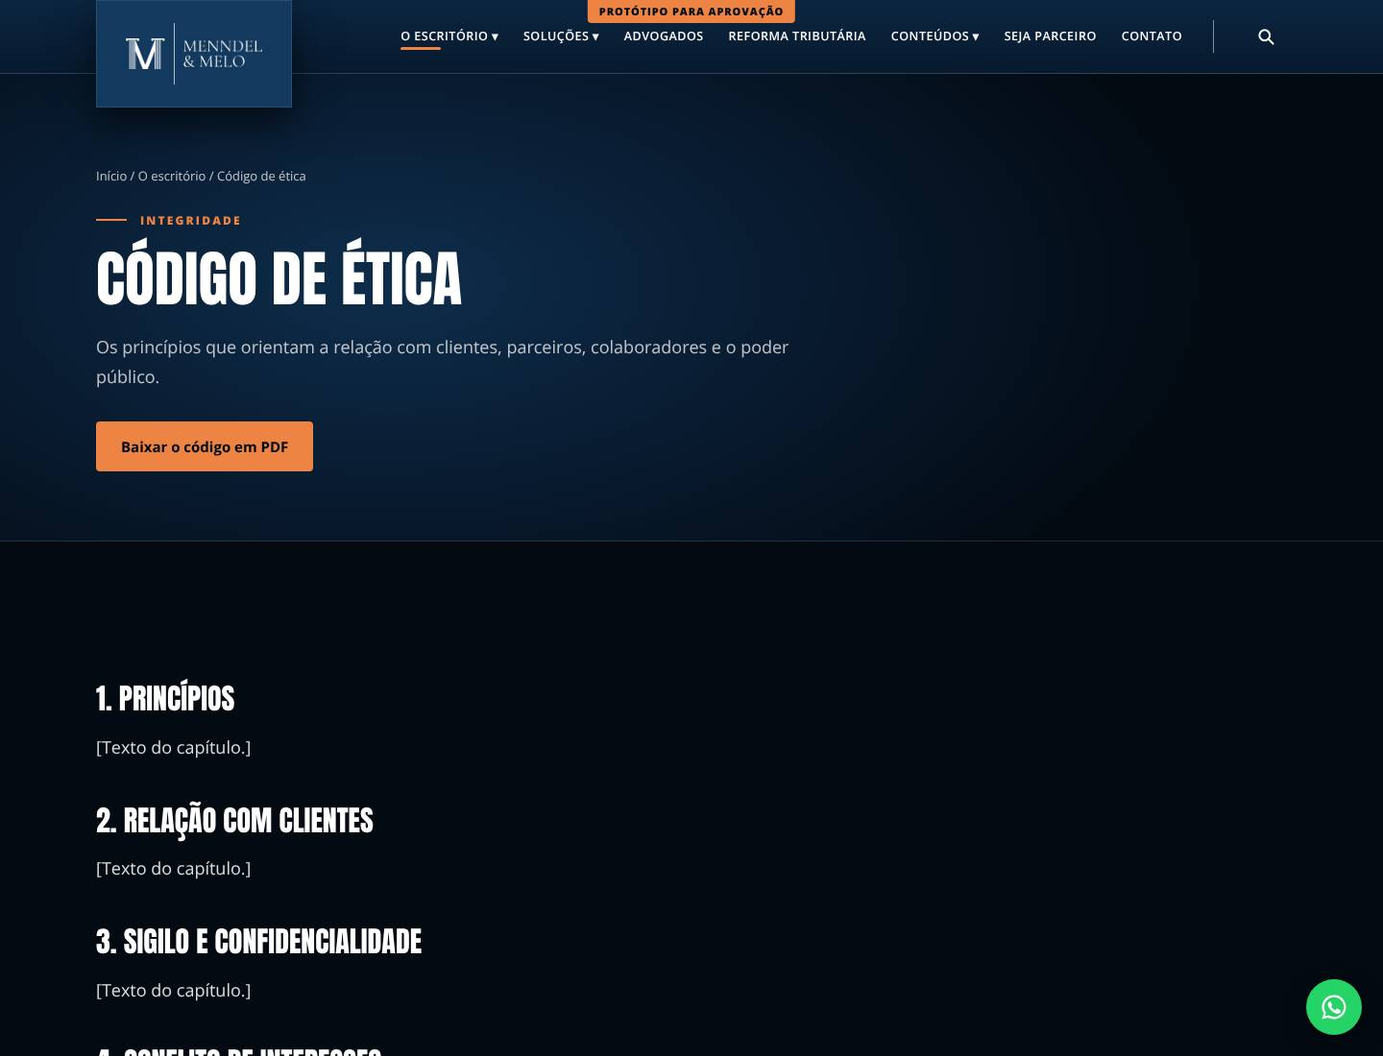
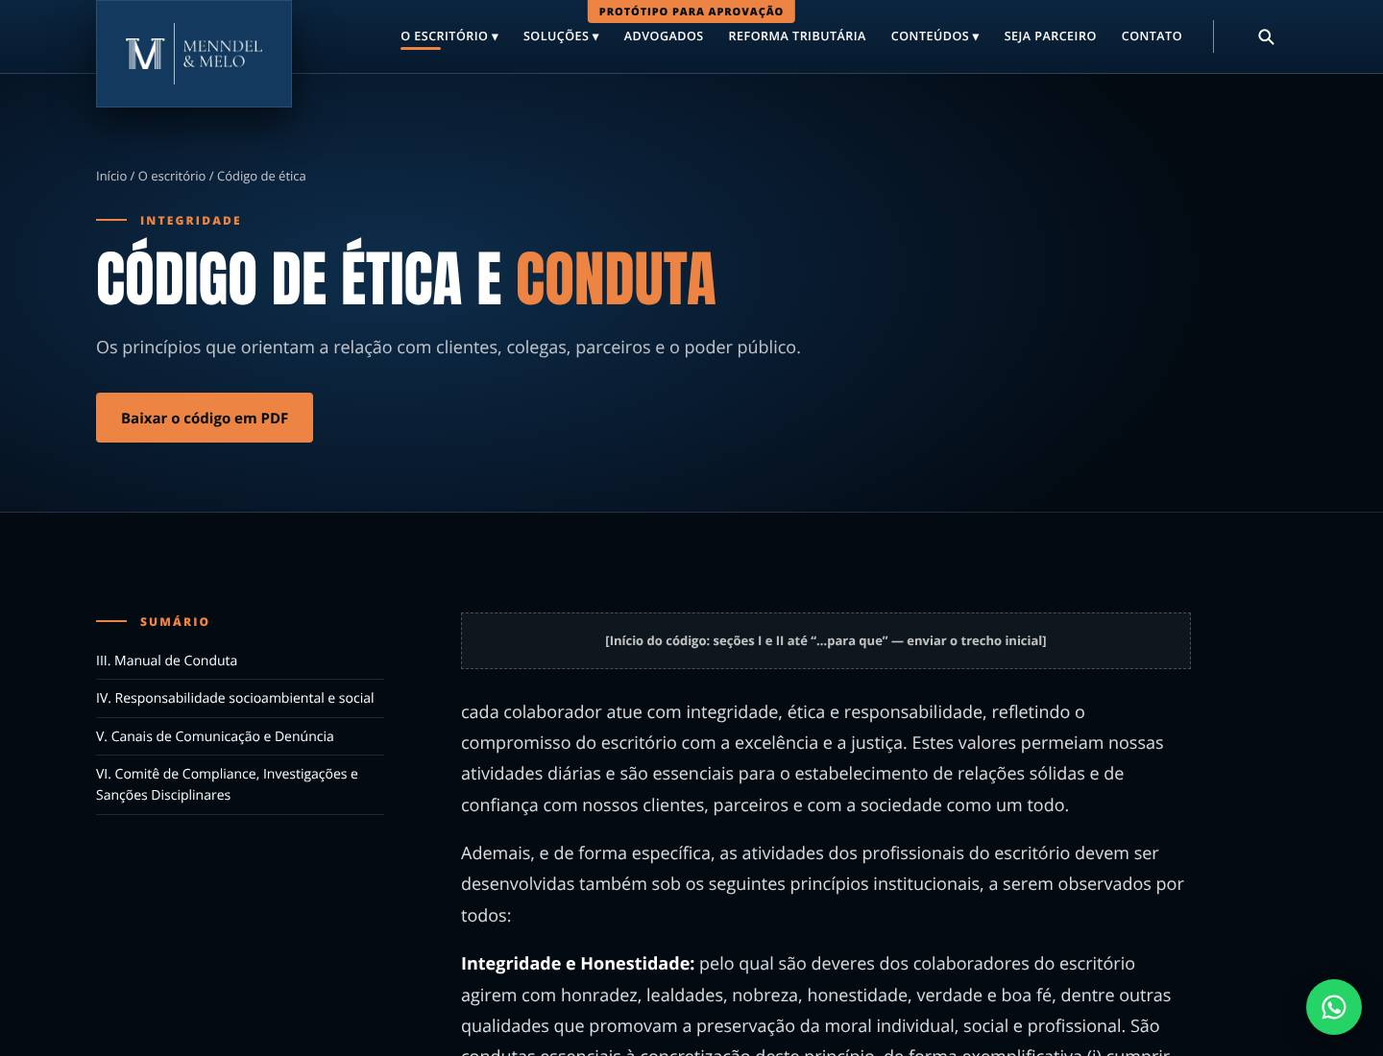
Site: texto do Código de ética
Claude-Session: https://claude.ai/code/session_01RpM6zW2bMnmueP2JfNHt6J

diff --git a/site-menndel/codigo-de-etica.html b/site-menndel/codigo-de-etica.html
@@ -14,9 +14,10 @@
 <main id="conteudo">
 
 <section class="phero"><div class="wrap"><p class="crumb"><a href="home.html">Início</a> / <a href="quem-somos.html">O escritório</a> / Código de ética</p>
-<p class="eyebrow">Integridade</p><h1 class="h1" style="margin-top:18px">Código de ética</h1>
-<p class="lead">Os princípios que orientam a relação com clientes, parceiros, colaboradores e o poder público.</p><div class="btns"><a class="btn" href="#">Baixar o código em PDF</a></div></div></section>
-<section class="sec flat"><div class="wrap"><div class="article"><h2>1. Princípios</h2><p>[Texto do capítulo.]</p><h2>2. Relação com clientes</h2><p>[Texto do capítulo.]</p><h2>3. Sigilo e confidencialidade</h2><p>[Texto do capítulo.]</p><h2>4. Conflito de interesses</h2><p>[Texto do capítulo.]</p><h2>5. Relação com o poder público</h2><p>[Texto do capítulo.]</p><h2>6. Proteção de dados</h2><p>[Texto do capítulo.]</p><h2>7. Aplicação e revisão</h2><p>[Texto do capítulo.]</p></div></div></section>
+<p class="eyebrow">Integridade</p><h1 class="h1" style="margin-top:18px">Código de ética e <span class="hl">conduta</span></h1>
+<p class="lead">Os princípios que orientam a relação com clientes, colegas, parceiros e o poder público.</p><div class="btns"><a class="btn" href="#">Baixar o código em PDF</a></div></div></section>
+<section class="sec flat"><div class="wrap split" style="align-items:flex-start"><aside style="flex:0 1 300px;position:sticky;top:20px"><p class="eyebrow" style="margin-bottom:12px">Sumário</p><a href="#s-iii" style="display:block;padding:8px 0;border-bottom:1px solid var(--line);font-size:14px">III. Manual de Conduta</a><a href="#s-iv" style="display:block;padding:8px 0;border-bottom:1px solid var(--line);font-size:14px">IV. Responsabilidade socioambiental e social</a><a href="#s-v" style="display:block;padding:8px 0;border-bottom:1px solid var(--line);font-size:14px">V. Canais de Comunicação e Denúncia</a><a href="#s-vi" style="display:block;padding:8px 0;border-bottom:1px solid var(--line);font-size:14px">VI. Comitê de Compliance, Investigações e Sanções Disciplinares</a></aside>
+<div class="article" style="flex:2 1 600px"><div class="ph" style="margin-bottom:28px;padding:18px">[Início do código: seções I e II até “…para que” — enviar o trecho inicial]</div><p>cada colaborador atue com integridade, ética e responsabilidade, refletindo o compromisso do escritório com a excelência e a justiça. Estes valores permeiam nossas atividades diárias e são essenciais para o estabelecimento de relações sólidas e de confiança com nossos clientes, parceiros e com a sociedade como um todo.</p><p>Ademais, e de forma específica, as atividades dos profissionais do escritório devem ser desenvolvidas também sob os seguintes princípios institucionais, a serem observados por todos:</p><p><b style="color:#fff">Integridade e Honestidade:</b> pelo qual são deveres dos colaboradores do escritório agirem com honradez, lealdades, nobreza, honestidade, verdade e boa fé, dentre outras qualidades que promovam a preservação da moral individual, social e profissional. São condutas essenciais à concretização deste princípio, de forma exemplificativa (i) cumprir os compromissos assumidos perante o escritório, os colegas, os clientes e a Justiça; (ii) manter a honestidade em sua atuação interna e externa ao escritório, inclusive observando integralmente a legislação anticorrupção e a relativa à defesa da concorrência; (iii) não faltar com a verdade em seu relacionamento com os colegas e clientes, bem como em sua atuação profissional dentro e fora do Poder Judiciário; e (iv) ser leal e dedicado aos clientes e ao escritório, honrando a confiança depositada por ambos na sua atuação.</p><p><b style="color:#fff">Respeito:</b> que impõe aos colaboradores do escritório valorizarem a dignidade da pessoa humana e zelar por um ambiente de trabalho harmônico, cordial e fraterno, bem como absoluto respeito aos direitos e à esfera íntima dos colegas, clientes e parceiros, vedada qualquer discriminação em função da raça, religião, gênero, orientação sexual ou de qualquer outra natureza.</p><p><b style="color:#fff">Responsabilidade e da Excelência:</b> pelo qual são deveres dos colaboradores do M&amp;M Advocacia conduzirem com responsabilidade, ética, eficiência e presteza todos os compromissos profissionais e sociais assumidos perante clientes, colegas, parceiros e autoridade, enviando todos os esforços necessários ao atingimento dos objetivos perseguidos, bem como buscando sempre o aprimoramento profissional e a excelência nos serviços prestados.</p><p><b style="color:#fff">Solidariedade:</b> que impõe aos colaboradores buscarem sempre os fins comuns ao escritório, trabalhando em equipe e procurando auxiliar os demais na consecução dos objetivos assumidos perante os clientes, sem olvidar, todavia, da responsabilidade social inerente à advocacia como função indispensável à administração da Justiça.</p><p><b style="color:#fff">Respeito à Dignidade e à Diversidade:</b> que reconhece e valoriza a dignidade de todas as pessoas, promovendo um ambiente de trabalho inclusivo, harmonioso e livre de qualquer forma de discriminação. Onde a atuação é pautada pelo respeito às diferenças e pelo acolhimento, garantindo que todos os colaboradores, clientes e parceiros sejam tratados com equidade e respeito.</p><h2 id="s-iii">III. Manual de Conduta</h2><h3 id="s-iii-1" style="font-size:22px;margin:32px 0 6px;color:var(--orange)">III.1 Orientações Gerais</h3><p>Pautados pelos princípios referidos no item anterior e nas demais normas deontológicas que regem a atividade das sociedades profissionais de advogados, os colaboradores do M&amp;M devem, de forma específica, praticar e/ou se abster de praticar cotidianamente um conjunto de condutas que se passa a enumerar abaixo, não exaustivamente. Assim é que, de modo geral, todos os colaboradores devem:</p><p>(i) Obedecer às normas internas do M&amp;M e às leis em vigor, com destaque para a Lei nº 12.846/13 (&quot;Lei Anticorrupção&quot;) e o Decreto nº 8.420/2015, que a regulamentou, a Lei nº 13.709/2018 (&quot;Lei Geral de Proteção de Dados&quot;), bem como comunicar ao Comitê de Compliance ou ao Data Protection Office (DPO) caso tome conhecimento de qualquer situação de violação legal ou regulamentar envolvendo o M&amp;M e/ou seus integrantes e colaboradores;</p><p>(ii) Observar o dever de confidencialidade durante e após o vínculo colaborativo com o escritório, que abrange, além do sigilo profissional garantido por lei, o compromisso com a proteção das informações confidenciais internas do escritório, de colegas e demais colaboradores, que não devem ser divulgadas salvo por exigência legal ou mediante autorização do seu titular;</p><p>(iii) Respeitar a propriedade intelectual de todo o material produzido pelo M&amp;M e seus colaboradores, evitando sua divulgação e utilização externa não autorizada, bem como se abster de utilizar qualquer material intelectual de autoria de terceiros sem a respectiva referência autoral;</p><p>(iv) Não usar o nome ou vínculo colaborativo com o escritório para benefício próprio em detrimento dos interesses do M&amp;M e/ou de seus clientes;</p><p>(v) Zelar pelo bom nome e reputação do M&amp;M, abstendo-se de praticar condutas que coloquem em risco essa reputação;</p><p>(vi) Zelar pelo patrimônio do M&amp;M, abstendo-se de praticar condutas que o coloquem em risco ou dano;</p><p>(vii) Não usar o patrimônio do M&amp;M para fins pessoais sem a devida autorização e/ou comunicação;</p><p>(viii) Abster-se de praticar qualquer ação ou omissão que caracterize discriminação em função da raça, gênero, religião, idade ou qualquer outra forma de diversidade, especialmente em matéria de contratações, tratamento interno, avaliações, remunerações, promoções, seleção de caudas e clientes, comunicação institucional, dentre outras;</p><p>(ix) Abster-se de praticar qualquer conduta que caracterize assédio sexual e/ou moral em relação a qualquer outro colaborador, cliente, fornecedor, parceiro ou prestador de serviço;</p><p>(x) Respeitar e proteger a livre concorrência, abstendo-se de praticar e/ou auxiliar clientes a praticarem condutas que possam ser caracterizadas como concorrência desleal ou outras violações à legislação anticoncorrencial, em especial às Leis nºs 12.529/11, Lei nº 14.133/2021 (bem como a Lei n° 8.666/93 quando ainda aplicável) e 13.303/16, dentre outras;</p><p>(xi) Observar as normas legais e regulamentares relativas a conflitos de interesses, a fim de impedir que se materializem. Para tanto, todo potencial cliente e/ou caso novo – de natureza consultiva ou contenciosa – deve ser submetido previamente ao Comitê Executivo do M&amp;M, a fim de se verificar a ausência de conflitos, não apenas nos termos do Código de Ética e demais regulamentos da OAB na matéria, mas também em relação aos termos de outras obrigações contratuais já assumidas previamente pelo escritório;</p><p>(xii) Seguir as diretrizes e orientações da equipe de Segurança da Informação, bem como participar dos treinamentos que envolvam o tema e observar a Política de Proteção de Dados e o Manual de Boas Práticas LGPD, comprometendo-se a comunicar imediatamente às equipes competentes qualquer problema nesse contexto.</p><p>O M&amp;M considera a transparência e a conduta lícita pontos fundamentais para parcerias longas e benéficas para as partes e para a sociedade. Em razão disso, o escritório toma as medidas possíveis, de acordo com seu porte e ramo de atuação, para prevenir qualquer envolvimento, ainda que involuntário, em crime de lavagem de dinheiro, como, e.g., a limitação do número de colaboradores permitidos a autorizar pagamentos em nome da sociedade e a adoção de sistemas de confirmação/autorização em duas instâncias para a efetivação de cobranças e pagamentos em nome da sociedade.</p><h3 id="s-iii-2" style="font-size:22px;margin:32px 0 6px;color:var(--orange)">III.2 Relacionamento Interno</h3><p>Sem prejuízo das demais regras de conduta expostas até aqui, no que se refere de forma específica ao relacionamento interno entre colegas e colaboradores do M&amp;M, são deveres de todos:</p><p>(i) Promover um ambiente de trabalho agradável, salubre e cordial, mantendo eventuais conflitos internos – seja de caráter técnico, moral, relacional ou de qualquer outra natureza – restritos ao ambiente privado do M&amp;M, evitando-se a publicidade ou divulgação externa;</p><p>(ii) Informar ao Comitê de Compliance se o próprio ou seu cônjuge/companheiro possui relacionamento pessoal ou profissional com clientes, fornecedores ou colaboradores do M&amp;M ou com órgãos e agentes da Administração Pública direta, indireta ou fundacional, inclusive empresas públicas e sociedades de economia mista, como forma de evitar conflito de interesses;</p><p>(iii) Informar ao Comitê de Compliance se parente do próprio ou de seu cônjuge/companheiro, em linha reta ou colateral até o terceiro grau, possui relacionamento pessoal ou profissional com clientes, fornecedores ou colaboradores do M&amp;M ou com órgãos e agentes da Administração Pública direta, indireta ou fundacional, inclusive empresas públicas e sociedades de economia mista, como forma de evitar conflito de interesses;</p><p>(iv) Informar ao Comitê de Compliance a propositura, antes ou após o ingresso no M&amp;M, de qualquer ação em face de cliente do M&amp;M em que figure como autor o próprio ou seu cônjuge/companheiro;</p><p>(v) Consultar previamente o Comitê Executivo sobre a intenção de prestação de serviços advocatícios de forma independente , para o fim de verificar a eventual existência de conflitos de interesses com clientes ou teses jurídicas defendidas em nome do M&amp;M, de modo a evitá-los, bem como informar a existência prévia de ações por si patrocinadas quando do ingresso nos quadros do M&amp;M, para os mesmos fins.</p><h3 id="s-iii-3" style="font-size:22px;margin:32px 0 6px;color:var(--orange)">III.3 Relacionamento com Clientes</h3><p>No que se refere ao relacionamento com os clientes, os colaboradores do M&amp;M deverão observar, além das demais condutas aplicáveis já previstas no presente Código, o seguinte:</p><p>(i) Executar com presteza, boa técnica e eficiência os compromissos assumidos com o cliente, envidando todos os esforços possíveis para a obtenção do fim por ele visado;</p><p>(ii) Respeitar com rigor o sigilo profissional, bem como proteger as informações e dados transmitidos pelo cliente, fazendo sua utilização e/ou divulgação somente para fiel cumprimento do mandato e/ou após autorização do mesmo;</p><p>(iii) Ao postular contra ex-cliente, cuidar para que informações confidenciais ou privilegiadas que lhe tenham sido confiadas permaneçam resguardadas pelo sigilo profissional, estando ciente o colaborador que o dever de confidencialidade deverá ser mantido durante e após o vínculo colaborativo com o escritório;</p><p>(iv) Informar ao Comitê de Compliance a superveniência de qualquer situação de que tome conhecimento que possa representar conflito de interesses entre si próprio e o cliente, ou entre este e o M&amp;M e/ou seus demais integrantes;</p><p>(v) Tratar o cliente e/ou seus representantes e prepostos com cortesia, respeito e urbanidade, bem como agir com ética e transparência, inclusive na quantificação de custos e honorários envolvidos no serviço contratado;</p><p>(vi) É vedada a oferta de brindes, presentes ou quaisquer vantagens a clientes atuais e/ou em potencial fora dos limites de eventual contrato existente ou em negociação entre as partes, com o objetivo de recompensar, agradecer ou influenciar a tomada de qualquer decisão, bem como para o fim de obter a prática de qualquer ato favorável ao M&amp;M, seus colaboradores ou clientes;</p><p>(vii) É vedado o recebimento de brindes, presentes ou quaisquer vantagens de clientes atuais e/ou em potencial fora dos limites de eventual contrato existente ou em negociação entre as partes, com o objetivo de recompensar, agradecer ou influenciar a tomada de qualquer decisão.</p><h3 id="s-iii-4" style="font-size:22px;margin:32px 0 6px;color:var(--orange)">III.4 Relacionamento com Entes, Agentes e Autoridades Públicas</h3><p>Em linhas gerais, o relacionamento do M&amp;M e/ou de seus colaboradores com entes, agentes e autoridades públicos – assim entendidos quaisquer integrantes da Administração Pública, direta ou indireta, em todos os níveis da Federação, bem como as autoridades dos Poderes Legislativo e Judiciário, inclusive no exercício de suas funções típicas – deve sempre se orientar pelos princípios constitucionais e regras legais diretamente aplicáveis à matéria, destacando-se o art. 37 da Constituição Federal, o Código Penal e a Lei nº 12.846/13 e respectivo Decreto regulamentar. De toda forma, passa-se a enumerar abaixo, de forma não exaustiva, regras específicas de conduta que são indispensáveis ao cumprimento da referida legislação:</p><p>(i) É vedada a obtenção, tentativa de obtenção ou oferta de qualquer vantagem indevida ao M&amp;M, seus integrantes e/ou clientes em decorrência de eventual relacionamento pessoal ou profissional de colaborador do M&amp;M com entes, agentes ou autoridades públicos;</p><p>(ii) Todos os colaboradores do M&amp;M devem comunicar ao Comitê de Compliance o exercício, por si próprio, seu cônjuge ou parentes em linha reta ou colaterais até o terceiro grau, de qualquer espécie de função pública, seja em caráter permanente ou eventual. O Comitê de Compliance deverá manter uma lista atualizada dessas informações, que poderá ser solicitada por todos para consulta, através do e-mail compliance@menndel.com, a fim de se prevenirem eventuais conflitos de interesses ou situações de ilicitude;</p><p>(iii) O relacionamento do M&amp;M e de seus integrantes com agentes e autoridades públicos deverá se dar de forma pública e transparente, valendo-se sempre que possível de mecanismos institucionais para a realização de encontros e reuniões, tais como agendamento público prévio, pautas e atas, ainda que pela via de email;</p><p>(iv) A celebração de contratos de prestação de serviços advocatícios pelo M&amp;M a entes públicos deverá sempre observar estritamente, além da legislação aplicável em cada caso, os estatutos, normas e procedimentos internos a que subordinado o ente contratante;</p><p>(v) É vedada a oferta de brindes ou presentes a qualquer agente ou autoridade pública em nome do M&amp;M e/ou seus colaboradores com o objetivo de recompensar, agradecer ou influenciar a tomada de qualquer decisão, bem como para o fim de obter a prática de qualquer conduta favorável ao M&amp;M, seus colaboradores ou clientes;</p><p>(vi) Não se enquadra na vedação do item anterior o oferecimento de livros jurídicos produzidos pelos integrantes do M&amp;M, bem como de material ou produtos de divulgação do escritório, como agendas, canetas, blocos ou outros itens sem valor comercial ou de valor módico, desde que observados os limites e normas estabelecidos nos estatutos e regras funcionais a que submetidos os agentes ou autoridades a que distribuídos;</p><p>(vii) É vedado o recebimento, pelo M&amp;M e/ou seus colaboradores, de brindes, presentes ou vantagens ofertados por entes, agentes e autoridades públicos fora dos limites e condições de eventual contrato de prestação de serviços existente entre o escritório e o ofertante, ressalvados os casos em que há relacionamento pessoal ou parentesco entre o colaborador e o indivíduo investido na função pública e o brinde ou presente não se relacione com qualquer atividade, contrato ou cliente do M&amp;M.</p><h3 id="s-iii-5" style="font-size:22px;margin:32px 0 6px;color:var(--orange)">III.5 Doações</h3><p>É vedada a realização de doações ou quaisquer contribuições financeiras e/ou sob a forma de vantagens e serviços a partidos políticos em nome do M&amp;M. O colaborador que desejar fazer tais doações somente pode fazê-lo por mera liberalidade e convicção pessoal, sem qualquer relação ou condicionamento à prática de ações ou omissões envolvendo o M&amp;M ou seus clientes, bem como deve informar ao Comitê de Compliance, a fim de prevenir eventuais conflitos de interesses em sua atuação profissional no escritório.</p><p>Não se incluem na vedação que se vem de referir o ministério de aulas, palestras e cursos de natureza jurídica por integrantes do M&amp;M em eventos patrocinados, organizados ou que envolvam de alguma forma partidos e organizações de caráter político, desde que respeitados os princípios éticos e de transparência previstos ao longo do presente Código.</p><h2 id="s-iv">IV. Responsabilidade socioambiental e social</h2><p>O M&amp;M respeita o meio ambiente e valoriza atitudes responsáveis que tenham por objetivo alcançar maior sustentabilidade e menor impacto ambiental, incentivando o uso consciente dos recursos naturais. Por isso, adota uma série de medidas voltadas à preservação do meio ambiente, tais como: a adoção, o descarte correto e a reutilização de materiais recicláveis; a priorização do modo digital sobre o impresso no exercício de suas atividades sempre que possível; a organização de campanhas e palestras sobre a importância da adoção rotineira de hábitos e medidas ecológicas e ambientalmente sustentáveis, especialmente através do Comitê de Equilíbrio; dentre outras.</p><p>Na mesma linha, o M&amp;M entende que um país menos desigual é responsabilidade de todos e, por essa razão, fomenta e organiza ações socialmente responsáveis periodicamente, especialmente através do Comitê Sou Solidário, bem como pontualmente por meio da prestação de serviços jurídicos pro bono, dentro do seu campo de atuação. O M&amp;M respeita o contexto social ao seu entorno e se esforça para, na medida do possível, proporcionar benefícios sociais a parcelas menos favorecidas da comunidade em que se insere.</p><h2 id="s-v">V. Canais de Comunicação e Denúncia</h2><p>Toda e qualquer dúvida acerca do cumprimento, violação ou suspeita de violação às regras estabelecidas no presente Código pode e deve ser informada por qualquer colaborador do M&amp;M ou terceiro por quaisquer dos canais de comunicação e denúncia próprios para tanto, a saber:</p><p>(i) via formulário eletrônico através deste link. Em caso de denúncia contra membro do Comitê de Compliance, deve-se utilizar este formulário. Neste caso, o Comitê de Compliance não terá ciência da denúncia</p><p>É garantido o sigilo do denunciante em qualquer canal de denúncia escolhido e é garantido o anonimato e o sigilo, caso assim opte o denunciante, em caso de denúncia através dos formulários disponibilizados nos links acima. O M&amp;M respeita e acolhe a comunicação ou denúncia de desvio de conduta ou de indícios de desvio de conduta feita de boa-fé, e não admite retaliações contra quaisquer pessoas que apresentem essa comunicação ou denúncia.</p><h2 id="s-vi">VI. Comitê de Compliance, Investigações e Sanções Disciplinares</h2><p>O Comitê de Compliance será formado por 3 (três) integrantes, sendo 2 (dois) comuns ao Comitê Executivo e 1 (um) terceiro eleito por este dentre os advogados ou funcionários dos quadros do escritório. A composição será revista a cada 2 (dois) anos ou conforme a necessidade em caso de vacância, ausência ou impedimento de um ou mais integrantes, por decisão do Comitê Executivo do escritório, sendo permitida a recondução total ou parcial dos integrantes.</p><p>Em caso de denúncia envolvendo um dos integrantes do Comitê, o mesmo será imediatamente afastado de suas funções relativas ao programa de Compliance, sendo substituído em caráter temporário, nos termos do parágrafo anterior. Recebida a dúvida ou denúncia, o Comitê de Compliance sanará a questão diretamente sempre que possível ou a direcionará à área ou Comitê responsável pelas matérias e/ou recursos humanos envolvidos. Em qualquer caso, o prazo para a conclusão de eventuais investigações que se façam necessárias será de 30 dias, prorrogáveis por mais 30.</p><p>Todos os procedimentos investigativos e disciplinares serão conduzidos da forma mais sigilosa e discreta possível, evitando-se a exposição de denunciantes (quando identificados) e denunciados até a conclusão da apuração e determinação das providências a serem tomadas. O sigilo do nome do denunciante será mantido em qualquer caso e mesmo após o encerramento da questão.</p><p>Sanada a dúvida ou comprovada eventual irregularidade, o Comitê de Compliance decidirá acerca da aplicação de sanções disciplinares aos envolvidos, dentre as quais, exemplificativamente: (a) advertência; (b) multa pecuniária, a ser revertida às ações sociais promovidas pelo comitê &quot;Ações Sociais M&amp;M&quot;, da M&amp;M; (c) suspensão da colaboração por até 90 (noventa) dias, sem direito a adiantamento/remuneração proporcional ao período de afastamento; (d) encerramento definitivo da colaboração com o M&amp;M. Concluídos os procedimentos, as medidas adotadas serão informadas ao Comitê Executivo, bem como ao</p><p>coordenador/supervisor da equipe pertinente, se for o caso. Em caso de decisão não unânime que preveja a aplicação de sanção disciplinar, caberá recurso pelo interessado ao Comitê Executivo no prazo de três dias úteis. O Comitê Executivo terá 5 (cinco) dias úteis para decidir o recurso, sob pena de arquivamento e manutenção da decisão do Comitê de Compliance. O histórico de sanções já aplicadas ao colaborador, bem como a reincidência em uma mesma conduta, será levado em consideração como fatores agravantes em eventual penalização futura.</p></div></div></section>
 </main>
 <footer class="ftr"><div class="wrap">
 <div class="cols">
